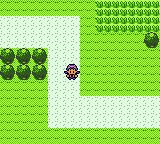
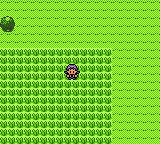
MAJ fin de carte

diff --git a/code/fenetreQT.py b/code/fenetreQT.py
@@ -22,6 +22,7 @@ class ImageWindow(QMainWindow):
     def __init__(self, vue):
         super().__init__()
         self.map= vue
+        self.combat = 0
         
     def initUI(self):
         super().__init__()
@@ -34,31 +35,45 @@ class ImageWindow(QMainWindow):
         self.label.setScaledContents(True)
         self.label.setGeometry(QtCore.QRect(50, 50, 800, 720))
         self.show()
+        
     
     def show_map(self):
-        pixmap = QPixmap(self.map.map_init)
-        self.label.setPixmap(pixmap)
-        self.label.setGeometry(30, 40, 721, 581)
-        self.label.setScaledContents(True)
-        self.label.setGeometry(QtCore.QRect(50, 50, 800, 720))
-        combat = self.map.hautes_herbes()
-        self.show()
+        if self.combat == 0 :
+                
+            pixmap = QPixmap(self.map.map_init)
+            self.label.setPixmap(pixmap)
+            self.label.setGeometry(30, 40, 721, 581)
+            self.label.setScaledContents(True)
+            self.label.setGeometry(QtCore.QRect(50, 50, 800, 720))
+            self.combat = self.map.hautes_herbes()
+            self.show()
+
+        
+        def show_combat (self):
+            if self.combat == 0 :
+                pass
+            pass
+        
+
         
         
     def keyPressEvent(self, event):
-
-        key = event.key()
-        # print(f"Touche pressée : {key}")
-        if key == 16777235:
-            self.map.deplacement("h")
-        if key == 16777237:
-            self.map.deplacement("b")
-        if key == 16777234:
-            self.map.deplacement("g")
-        if key == 16777236:
-            self.map.deplacement("d")
-        self.img = "../data/map.jpg"
-        self.show_map()
+        if self.combat == 0 :
+            key = event.key()
+            # print(f"Touche pressée : {key}")
+            if key == 16777235:
+                self.map.deplacement("h")
+            if key == 16777237:
+                self.map.deplacement("b")
+            if key == 16777234:
+                self.map.deplacement("g")
+            if key == 16777236:
+                self.map.deplacement("d")
+            self.img = "../data/map.jpg"
+            
+            self.show_map()
+        else :
+            self.label.hide()
 
 
 
@@ -91,7 +106,7 @@ if __name__ == '__main__':
         [1, 1, 1, 1, 1, 1, 1, 1, 1, 1, 1, 1, 1, 1, 1, 1, 1, 1, 1, 1, 1, 1, 1, 1, 1]
     ])
 
-    # matrix2 = np.genfromtxt("../data/terrain.csv", delimiter=';')
+    matrix2 = np.genfromtxt("../data/terrain.csv", delimiter=';',dtype=int)
     
     MAPP = augustin.Vue(matrix2,15,15)
     

diff --git a/code/augustin.py b/code/augustin.py
@@ -66,10 +66,8 @@ class Vue:
     def hautes_herbes(self):
         if self.biome_red == 1 :
             if randint(1, 7) == 5:
-                print("oui")
                 return randint(1,151)
-            else:
-                return 0
+        return 0
     
     def deplacement(self,direction):
         x_max, y_max = self.monde.shape
